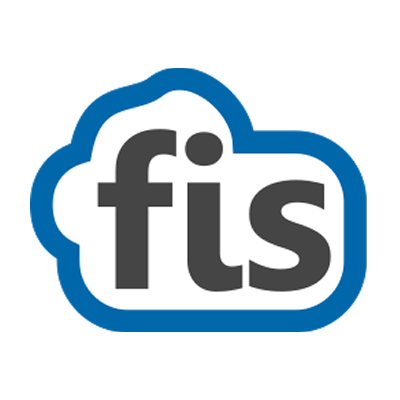
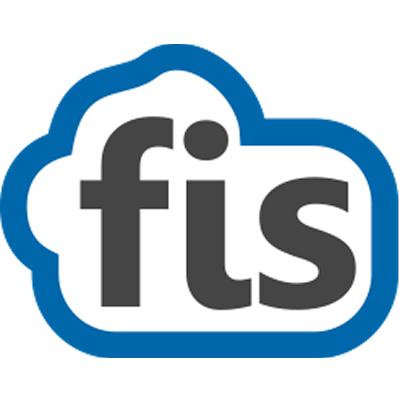
fix: 사이드바 로고 배경색 제거 및 크기 확대

diff --git a/src/components/app-sidebar.tsx b/src/components/app-sidebar.tsx
@@ -54,13 +54,13 @@ export function AppSidebar({ ...props }: React.ComponentProps<typeof Sidebar>) {
           <SidebarMenuItem>
             <SidebarMenuButton size="lg" asChild>
               <Link href="/home">
-                <div className="flex aspect-square size-8 items-center justify-center rounded-lg bg-sidebar-primary text-sidebar-primary-foreground">
+                <div className="flex aspect-square size-8 items-center justify-center rounded-lg">
                   <Image
                     src="/icon.png"
                     alt="FISQ"
                     width={32}
                     height={32}
-                    className="size-4"
+                    className="size-7"
                     priority
                   />
                 </div>
